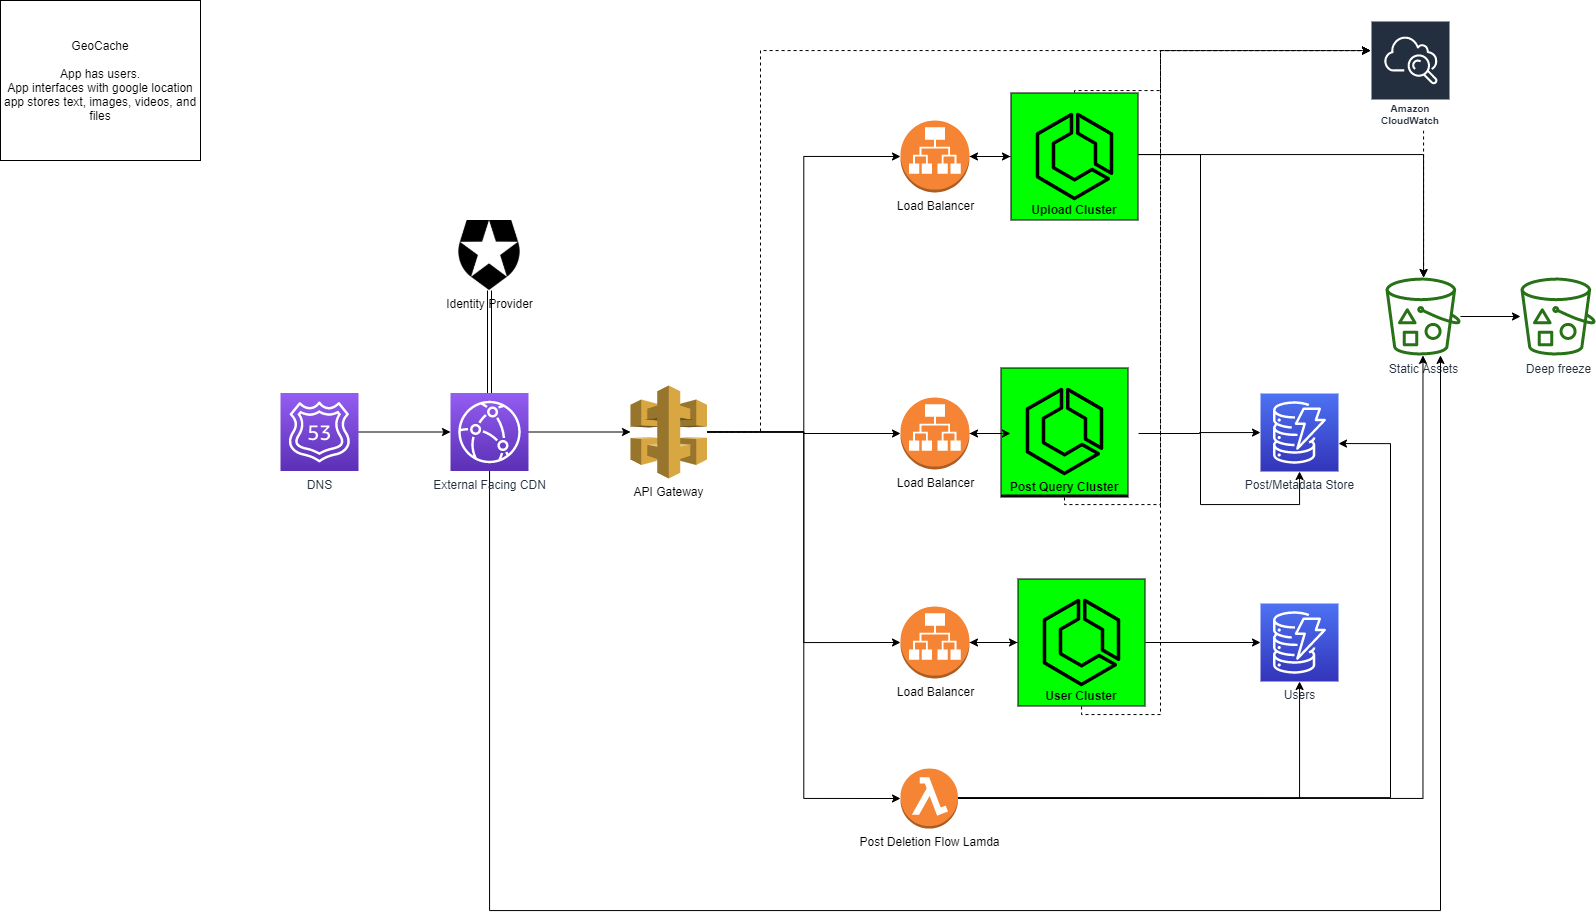
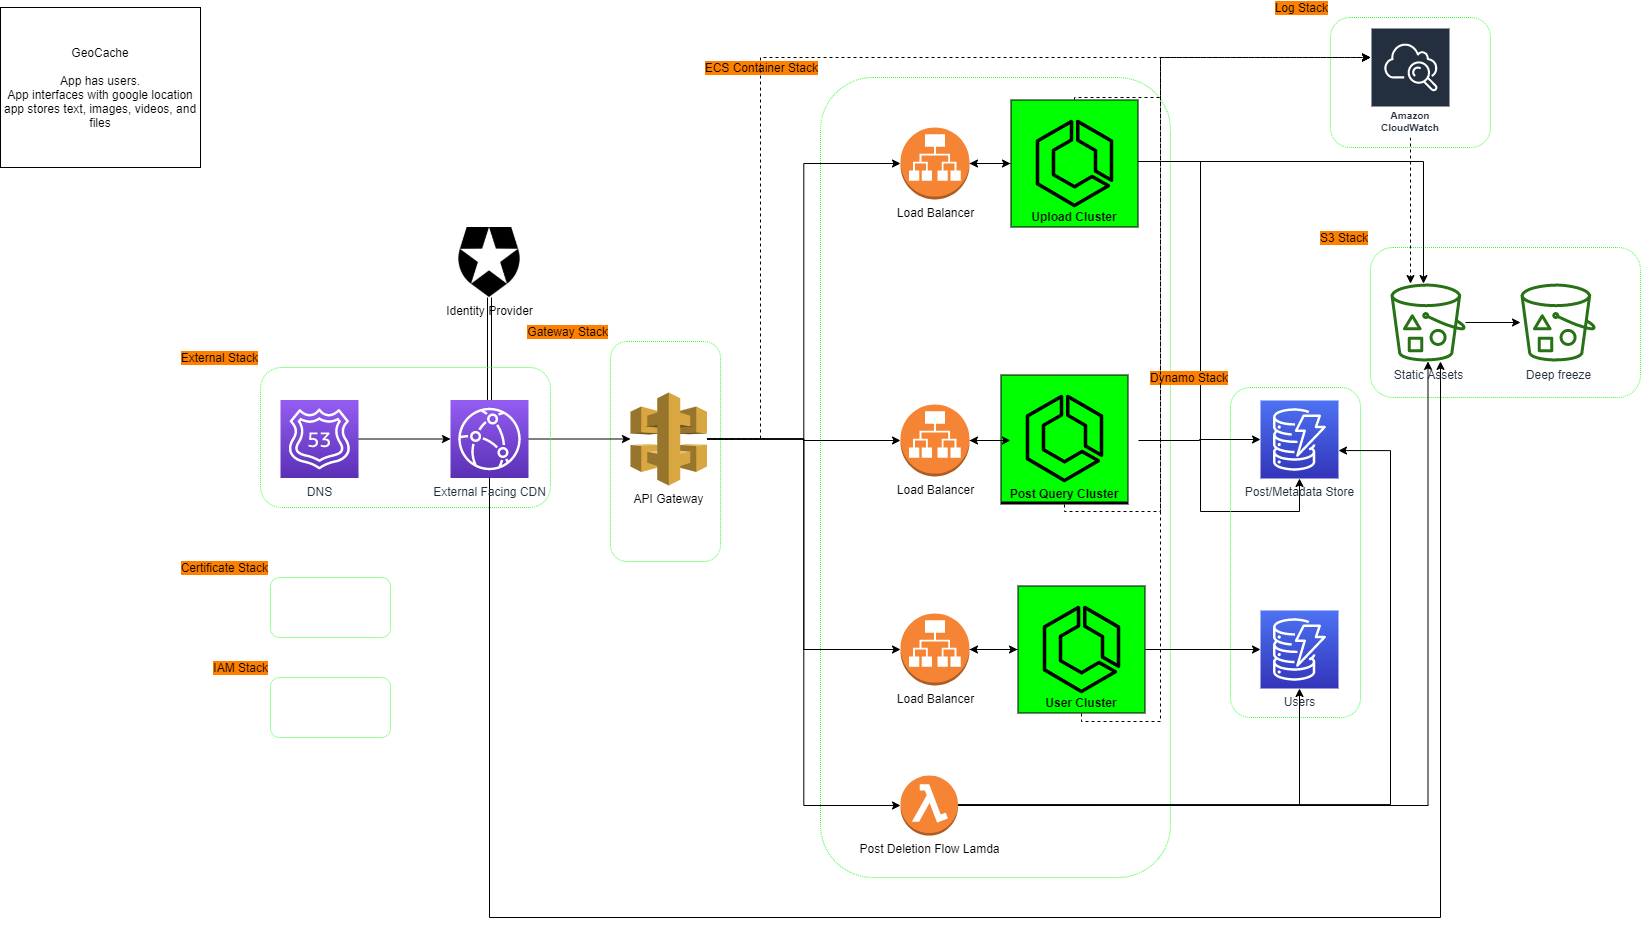
added a directory for segnmenting cloudformations

diff --git a/apps/aws-infrastruture/lib/stacks/index.ts b/apps/aws-infrastruture/lib/stacks/index.ts
@@ -1,0 +1,9 @@
+export * from './certificate-stack';
+export * from './container-repo-stack';
+export * from './dynamo-stack';
+export * from './ecs-container-stack';
+export * from './external-stack';
+export * from './gateway-stack';
+export * from './iam-stack';
+export * from './log-stack';
+export * from './s3-stack';

diff --git a/apps/aws-infrastruture/lib/stacks/container-repo-stack.ts b/apps/aws-infrastruture/lib/stacks/container-repo-stack.ts
@@ -1,0 +1,7 @@
+import { Construct, Stack, StackProps } from '@aws-cdk/core';
+
+export class GeoCacheContainerRepoStack extends Stack {
+  constructor(scope?: Construct, id?: string, props?: StackProps) {
+    super(scope, id, props);
+  }
+}

diff --git a/apps/aws-infrastruture/lib/stacks/ecs-container-stack.ts b/apps/aws-infrastruture/lib/stacks/ecs-container-stack.ts
@@ -1,0 +1,7 @@
+import { Construct, Stack, StackProps } from '@aws-cdk/core';
+
+export class GeoCacheECSContainerStack extends Stack {
+  constructor(scope?: Construct, id?: string, props?: StackProps) {
+    super(scope, id, props);
+  }
+}

diff --git a/apps/aws-infrastruture/lib/stacks/certificate-stack.ts b/apps/aws-infrastruture/lib/stacks/certificate-stack.ts
@@ -1,0 +1,7 @@
+import { Construct, Stack, StackProps } from '@aws-cdk/core';
+
+export class GeoCacheCertificateStack extends Stack {
+  constructor(scope?: Construct, id?: string, props?: StackProps) {
+    super(scope, id, props);
+  }
+}

diff --git a/apps/aws-infrastruture/lib/stacks/external-stack.ts b/apps/aws-infrastruture/lib/stacks/external-stack.ts
@@ -1,0 +1,7 @@
+import { Construct, Stack, StackProps } from '@aws-cdk/core';
+
+export class GeoCacheExternalStack extends Stack {
+  constructor(scope?: Construct, id?: string, props?: StackProps) {
+    super(scope, id, props);
+  }
+}

diff --git a/apps/aws-infrastruture/lib/stacks/gateway-stack.ts b/apps/aws-infrastruture/lib/stacks/gateway-stack.ts
@@ -1,0 +1,7 @@
+import { Construct, Stack, StackProps } from '@aws-cdk/core';
+
+export class GeoCacheGatewayStack extends Stack {
+  constructor(scope?: Construct, id?: string, props?: StackProps) {
+    super(scope, id, props);
+  }
+}

diff --git a/apps/aws-infrastruture/lib/stacks/dynamo-stack.ts b/apps/aws-infrastruture/lib/stacks/dynamo-stack.ts
@@ -1,0 +1,7 @@
+import { Construct, Stack, StackProps } from '@aws-cdk/core';
+
+export class GeoCacheDynamoStack extends Stack {
+  constructor(scope?: Construct, id?: string, props?: StackProps) {
+    super(scope, id, props);
+  }
+}

diff --git a/apps/aws-infrastruture/lib/stacks/iam-stack.ts b/apps/aws-infrastruture/lib/stacks/iam-stack.ts
@@ -1,0 +1,7 @@
+import { Construct, Stack, StackProps } from '@aws-cdk/core';
+
+export class GeoCacheIAMStack extends Stack {
+  constructor(scope?: Construct, id?: string, props?: StackProps) {
+    super(scope, id, props);
+  }
+}

diff --git a/apps/aws-infrastruture/lib/stacks/log-stack.ts b/apps/aws-infrastruture/lib/stacks/log-stack.ts
@@ -1,0 +1,7 @@
+import { Construct, Stack, StackProps } from '@aws-cdk/core';
+
+export class GeoCacheLogStack extends Stack {
+  constructor(scope?: Construct, id?: string, props?: StackProps) {
+    super(scope, id, props);
+  }
+}

diff --git a/apps/aws-infrastruture/lib/stacks/s3-stack.ts b/apps/aws-infrastruture/lib/stacks/s3-stack.ts
@@ -1,0 +1,7 @@
+import { Construct, Stack, StackProps } from '@aws-cdk/core';
+
+export class GeoCacheS3Stack extends Stack {
+  constructor(scope?: Construct, id?: string, props?: StackProps) {
+    super(scope, id, props);
+  }
+}
